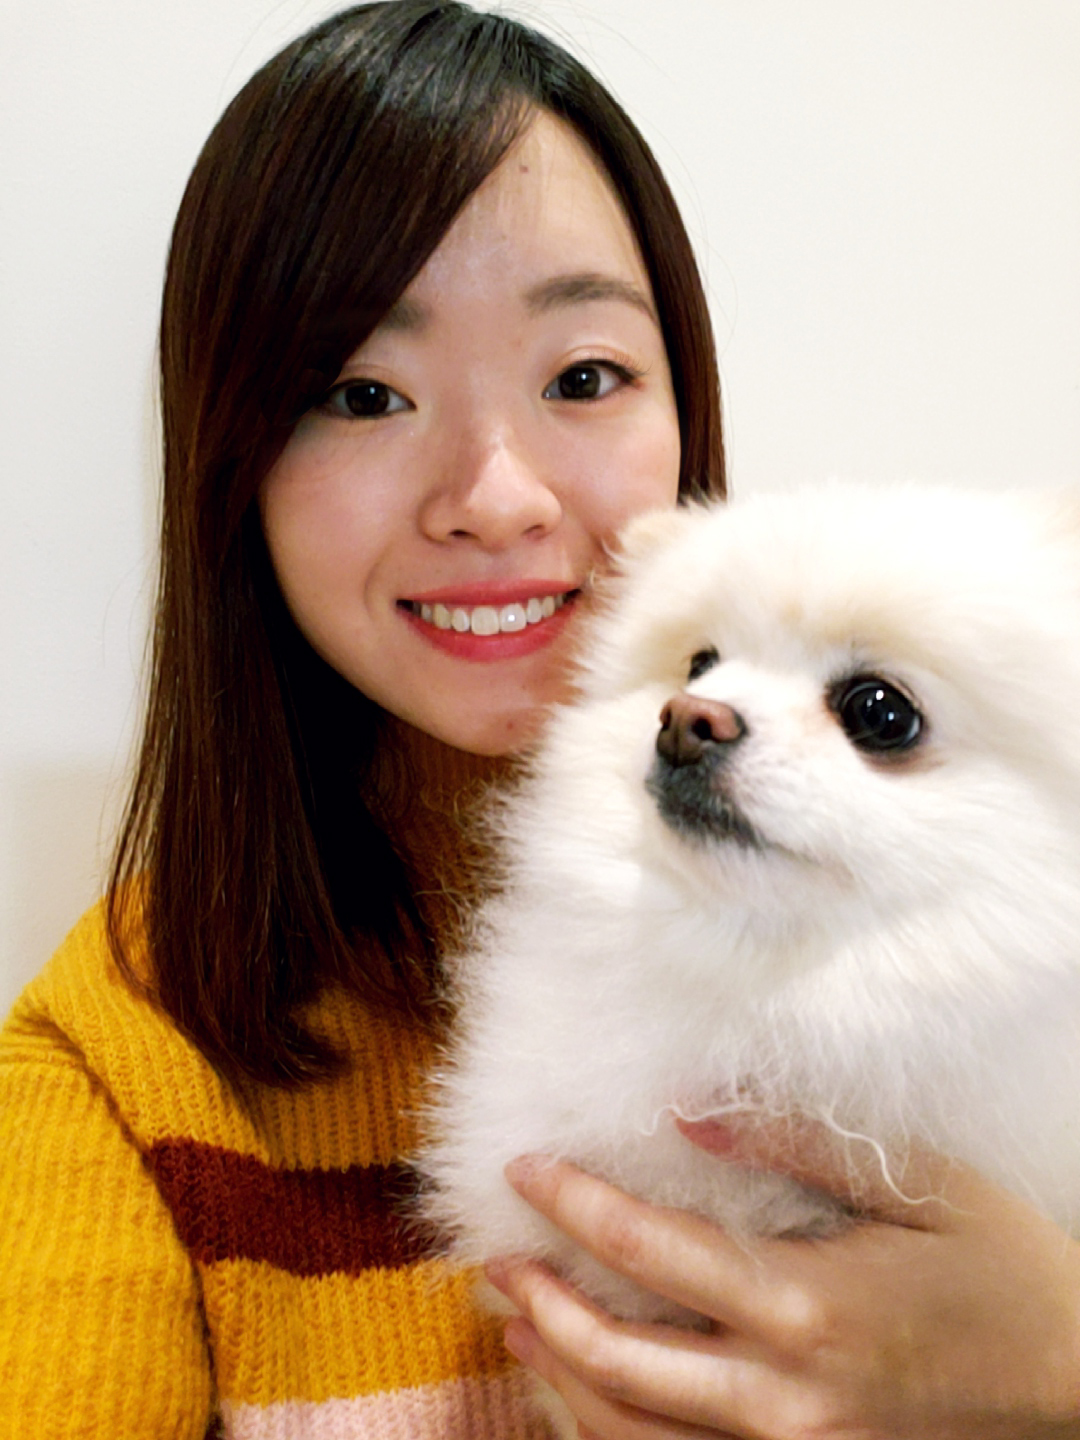
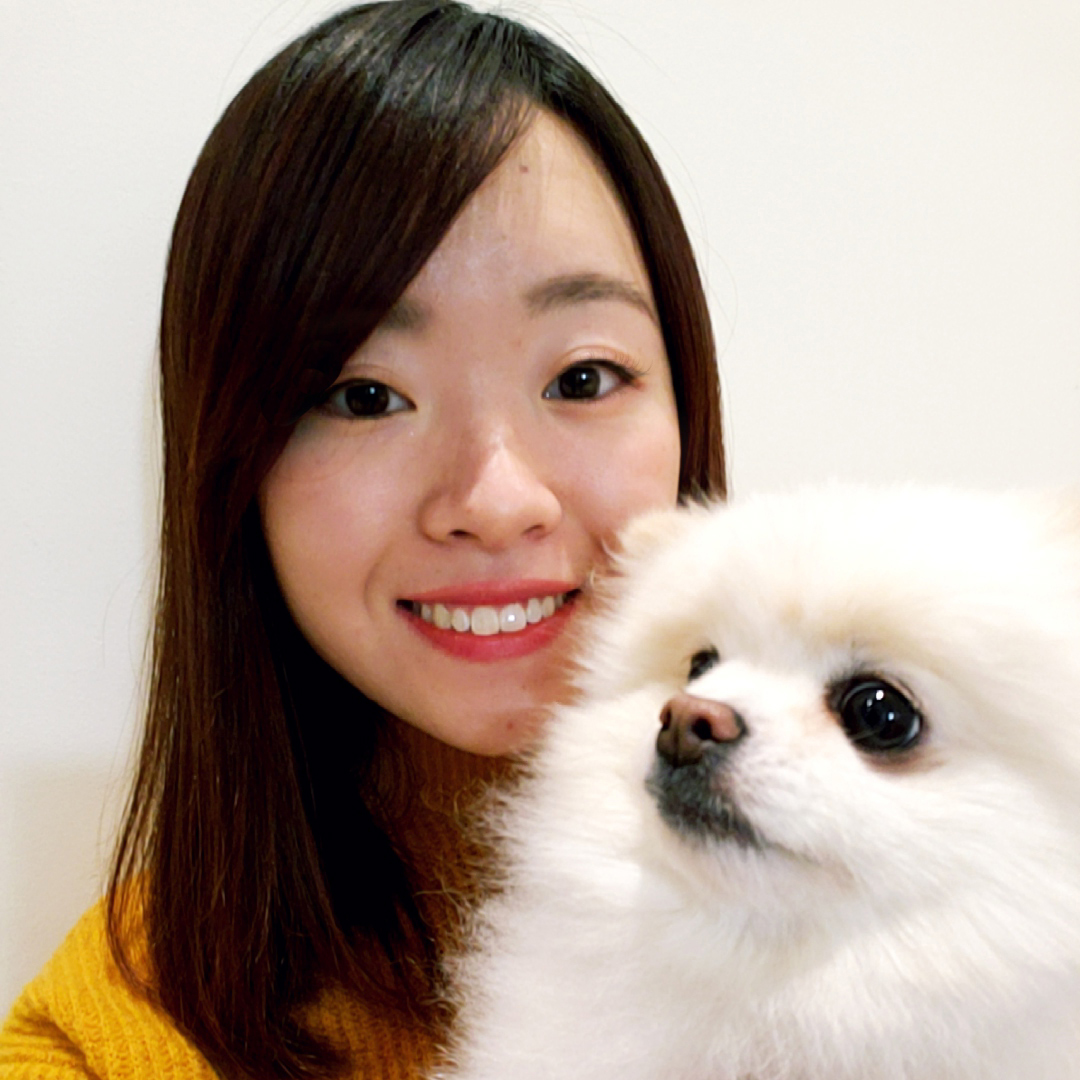
added fade-in animations

diff --git a/index.html b/index.html
@@ -35,7 +35,7 @@
                 <a class="mobileLinks" href="#contacts">Contact</a>
             </div> 
 
-            <div class="regularNav">
+            <div class="regularNav fade-in">
                 <a class="mobileLinks" href="#about">About</a>
                 <a  class="mobileLinks" href="#projects">Projects</a>
                 <a class="mobileLinks" href="#contacts">Contact</a>
@@ -63,21 +63,23 @@
     <article id="about" class="about">
         <div class="pinkWaves">
             <div class="wrapper">
-                <div class="image-container">
-                        <img class="profileImg fade-in" src="/assets/profilepic.jpg" alt="profile picture">
+                <div class="image-container fade-in">
+                        <img class="profileImg fade-in" src="/assets/profile.jpg" alt="profile picture">
                 </div>
-                <div class="text-container">
+                <div class="text-container fade-in">
                     <h2>About Me</h2>
                     <p>Hi! Thanks for stopping by! I am currently a student from the Juno College of Technology and a graduate from the University of Guelph with a bachelors in science. </p>
                     <br>
+                    <p>I am a self taught designer with a passion in bringing designs to life!</p>
+                    <br>
                     <p>
-                    When I'm not coding, I spend my time looking for new restaurants to try, playing video games and staying active!
+                    When I'm not coding, I spend my time looking for new restaurants to try, playing video games, staying active and playing with my cat and dogs!
                     </p>
                 </div>
             </div>
        </div>
     </article>
-    <section class="skills">
+    <section class="skills fade-in">
         <div class="wrapper">
             <h2>Skills</h2>
            <div class = "skillsList"> 
@@ -112,10 +114,10 @@
     </section>
     <section id="projects" class="projects">
         <div class="wrapper">
-            <h2>Projects</h2>
+            <h2 class="fade-in">Projects</h2>
             <div class="projectList">
                 <ul>
-                    <li class="projectItems">
+                    <li class="projectItems fade-in">
                         <video autoplay loop muted playsinline>
                             <source src="./assets/GettingGames.mp4">
                         </video>
@@ -127,7 +129,7 @@
                             <a href="https://github.com/tyiu130/gettingGames" target="_blank">View Code</a>
                         </div>
                     </li>
-                    <li class="projectItems">
+                    <li class="projectItems fade-in">
                         <video autoplay loop muted playsinline>
                             <source src="./assets/BarOneIpad.mp4">
                         </video>
@@ -140,7 +142,7 @@
                             <a href="https://github.com/tyiu130/terri-yiu-project-one" target="_blank">View Code</a>
                         </div>
                     </li>
-                    <li class="projectItems">
+                    <li class="projectItems fade-in">
                         <video autoplay loop muted playsinline>
                             <source src="./assets/pandaPhone.mp4">
                         </video>
@@ -153,7 +155,7 @@
                             <a href="https://github.com/tyiu130/panda-sanctuary" target="_blank">View Code</a>
                         </div>
                     </li>
-                    <li class="projectItems">
+                    <li class="projectItems fade-in">
                         <video autoplay loop muted playsinline>
                             <source src="./assets/GettingGames.mp4">
                         </video>
@@ -169,7 +171,7 @@
             </div>
         </div>
     </section>
-    <section id="contacts" class="contacts">
+    <section id="contacts" class="contacts fade-in">
         <div class="wrapper">
             <h2>Contacts</h2>
             <ul>

diff --git a/styles/styles.css b/styles/styles.css
@@ -880,13 +880,13 @@ h1 {
 }
 @media (min-width: 1200px) {
   .image-container {
-    padding-top: 330px;
+    padding-top: 250px;
   }
 }
 
 .profileImg {
-  width: 150px;
-  height: 150px;
+  width: 200px;
+  height: 200px;
   border-radius: 100%;
 }
 @media (min-width: 481px) {
@@ -895,12 +895,28 @@ h1 {
     height: 250px;
   }
 }
+@media (min-width: 769px) {
+  .profileImg {
+    width: 350px;
+    height: 350px;
+  }
+}
 
 @media (min-width: 769px) {
   .text-container {
     padding: 0 10%;
   }
 }
+.fade-in {
+  opacity: 0;
+  -webkit-transition: opacity 250ms ease-in;
+  transition: opacity 250ms ease-in;
+}
+
+.fade-in.appear {
+  opacity: 1;
+}
+
 .skills {
   text-align: center;
   position: relative;

diff --git a/app.js b/app.js
@@ -20,6 +20,29 @@ portfolio.setUpEventListeners = function() {
         navMenu.classList.toggle('active');
 
    })
+
+
+// Fade-In Code by Kevin Powell
+const faders = document.querySelectorAll('.fade-in');
+const appearOptions = {
+    threshold: 1,
+    rootMargin: "0px 0px -100px 0px"
+};
+
+const appearOnScroll = new IntersectionObserver(function(entries, appearOnScroll) {
+    entries.forEach(entry => {
+        if (!entry.isIntersecting) {
+            return;
+        } else {
+            entry.target.classList.add('appear');
+            appearOnScroll.unobserve(entry.target);
+        }
+    })
+}, appearOptions);
+
+faders.forEach(fader => {
+    appearOnScroll.observe(fader);
+})
 }
 
 

diff --git a/styles/sass/layout/_about.scss b/styles/sass/layout/_about.scss
@@ -22,17 +22,22 @@
     padding-top: 120px;
 
     @include devices(largeDesktop){
-        padding-top: 330px;
+        padding-top: 250px;
     }
 }
 .profileImg {
-    width: 150px;
-    height: 150px;
+    width: 200px;
+    height: 200px;
     border-radius: 100%;
 
     @include devices(tablet) {
         width: 250px;
         height: 250px;
+    }
+
+    @include devices(laptop) {
+        width: 350px;
+        height: 350px;
     }
 
 }
@@ -47,3 +52,11 @@
 
 
 
+.fade-in {
+    opacity: 0;
+    transition: opacity 250ms ease-in;
+}
+
+.fade-in.appear {
+    opacity: 1;
+}
